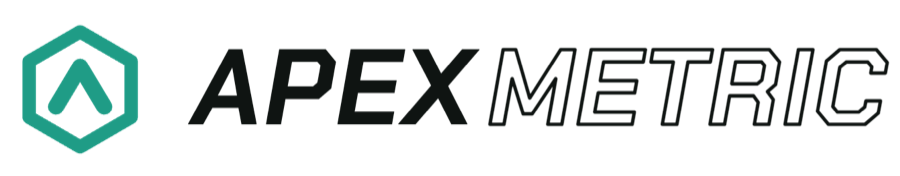
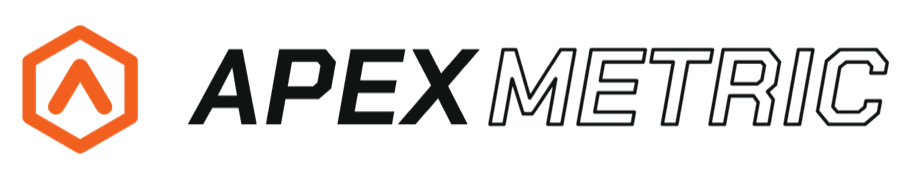
Dark mode (default) + light mode assets

Changed region(s): [[0.0, 0.142, 0.1556, 0.8807]]

diff --git a/assets/apple.css b/assets/apple.css
@@ -1,20 +1,53 @@
 /* Apex Metric — product-page edition. Loaded after style.css (which supplies the device frames and drawn screens)
    and re-skins .am for a light, airy look. Single light look with dark accent sections, on purpose. */
 .am.ap {
-  --t: #1d1d1f; --t2: #6e6e73; --bg: #ffffff; --g: #f5f5f7; --line: #d2d2d7; --blue: #F2601F; --link: #C8501A; --sage: #1F9C86;
+  --t: #1d1d1f; --t2: #5f6670; --bg: #f4f7fa; --g: #e8eef3; --card: #ffffff; --line: #d3dbe2; --sep: #dfe6ec; --blue: #F2601F; --link: #C8501A; --sage: #1F9C86;
+  --onacc: #ffffff; --hover: #E0531A; --nav: rgba(244, 247, 250, 0.82); --navline: rgba(0, 0, 0, 0.08); --hero: linear-gradient(#f8fbfd, #f4f7fa);
+  --warm: linear-gradient(160deg, #fff4ec, #ffe3cf); --sagebg: linear-gradient(160deg, #eaf7f4, #cfeee6); --amberbg: linear-gradient(160deg, #fff8e6, #ffecb8);
+  --grad: linear-gradient(90deg, #E8461A, #FF8A3D); --pill: #ffffff; --prose: #3a3a3c; --kicker: #b64400;
   --sf: -apple-system, BlinkMacSystemFont, "SF Pro Display", "Inter", "Helvetica Neue", Arial, sans-serif;
   background: var(--bg); color: var(--t); font-family: var(--sf); font-size: 17px; line-height: 1.47; letter-spacing: -0.01em; color-scheme: light;
 }
+
+/* ── Dark mode (default). Light only when chosen, or "auto" on a light device. ── */
+html { --page-bg: #000; }
+html[data-theme="light"] { --page-bg: #f4f7fa; }
+html:not([data-theme="light"]):not([data-theme="auto"]) .am.ap {
+  --t: #f5f5f7; --t2: #a1a1a6; --bg: #000000; --g: #111213; --card: #1c1c1e; --line: #2c2c2e; --sep: #2c2c2e; --blue: #3EC9A7; --link: #5FD6BA; --sage: #3EC9A7;
+  --onacc: #04140F; --hover: #34B394; --nav: rgba(0, 0, 0, 0.72); --navline: rgba(255, 255, 255, 0.1); --hero: linear-gradient(#0a0b0b, #000);
+  --warm: linear-gradient(160deg, #1e1510, #2b1b11); --sagebg: linear-gradient(160deg, #0d1d19, #10302a); --amberbg: linear-gradient(160deg, #1d180c, #2c2410);
+  --grad: linear-gradient(90deg, #2BD6AE, #9BE7D5); --pill: #3a3a3c; --prose: #d1d1d6; --kicker: #5FD6BA; color-scheme: dark;
+}
+@media (prefers-color-scheme: dark) { html[data-theme="auto"] .am.ap {
+  --t: #f5f5f7; --t2: #a1a1a6; --bg: #000000; --g: #111213; --card: #1c1c1e; --line: #2c2c2e; --sep: #2c2c2e; --blue: #3EC9A7; --link: #5FD6BA; --sage: #3EC9A7;
+  --onacc: #04140F; --hover: #34B394; --nav: rgba(0, 0, 0, 0.72); --navline: rgba(255, 255, 255, 0.1); --hero: linear-gradient(#0a0b0b, #000);
+  --warm: linear-gradient(160deg, #1e1510, #2b1b11); --sagebg: linear-gradient(160deg, #0d1d19, #10302a); --amberbg: linear-gradient(160deg, #1d180c, #2c2410);
+  --grad: linear-gradient(90deg, #2BD6AE, #9BE7D5); --pill: #3a3a3c; --prose: #d1d1d6; --kicker: #5FD6BA; color-scheme: dark;
+} }
+/* Logos and icons that exist in a light and a dark version. */
+.am.ap .only-dark { display: none !important; }
+html:not([data-theme="light"]):not([data-theme="auto"]) .am.ap .only-dark { display: inline-block !important; }
+html:not([data-theme="light"]):not([data-theme="auto"]) .am.ap .only-light { display: none !important; }
+@media (prefers-color-scheme: dark) { html[data-theme="auto"] .am.ap .only-dark { display: inline-block !important; } html[data-theme="auto"] .am.ap .only-light { display: none !important; } }
+/* Theme switch in the top bar: moon = dark, sun = light, half circle = automatic. */
+.am.ap .theme-btn { flex: none; width: 30px; height: 30px; border-radius: 50%; border: 0; background: var(--g); color: var(--t); display: grid; place-items: center; cursor: pointer; padding: 0; }
+.am.ap .theme-btn svg { width: 16px; height: 16px; fill: none; stroke: currentColor; stroke-width: 1.8; stroke-linecap: round; display: none; }
+.am.ap .theme-btn .ti-dark { fill: currentColor; stroke: none; } .am.ap .theme-btn .fill { fill: currentColor; stroke: none; }
+.am.ap .theme-btn[data-mode="dark"] .ti-dark, .am.ap .theme-btn[data-mode="light"] .ti-light, .am.ap .theme-btn[data-mode="auto"] .ti-auto { display: block; }
+.am.ap .theme-btn:not([data-mode]) .ti-dark { display: block; }
+
+@media (prefers-color-scheme: light) { html[data-theme="auto"] { --page-bg: #f4f7fa; } }
+
 .am.ap h1, .am.ap h2, .am.ap h3, .am.ap h4 { font-family: var(--sf); text-transform: none; font-weight: 700; letter-spacing: -0.025em; line-height: 1.08; }
 .am.ap a { color: var(--link); text-decoration: none; }
 .am.ap a:hover { text-decoration: underline; }
 .am.ap sup { font-size: 0.6em; color: var(--t2); }
 .am.ap .center { text-align: center; }
-.am.ap .grad { background: linear-gradient(90deg, #E8461A, #FF8A3D); -webkit-background-clip: text; background-clip: text; color: transparent; }
+.am.ap .grad { background: var(--grad); -webkit-background-clip: text; background-clip: text; color: transparent; }
 .am.ap .soft { color: var(--t2); }
 
 /* Local nav */
-.am.ap .lnav { position: sticky; top: env(safe-area-inset-top, 0px); z-index: 20; background: rgba(255, 255, 255, 0.8); backdrop-filter: saturate(180%) blur(20px); -webkit-backdrop-filter: saturate(180%) blur(20px); border-bottom: 1px solid rgba(0, 0, 0, 0.08); }
+.am.ap .lnav { position: sticky; top: env(safe-area-inset-top, 0px); z-index: 20; background: var(--nav); backdrop-filter: saturate(180%) blur(20px); -webkit-backdrop-filter: saturate(180%) blur(20px); border-bottom: 1px solid var(--navline); }
 .am.ap .lnav-in { max-width: 1024px; margin: 0 auto; padding: 0 22px; height: 52px; display: flex; align-items: center; gap: 24px; }
 .am.ap .lnav-name { display: flex; align-items: center; gap: 8px; color: var(--t); font-weight: 700; font-size: 1.15rem; letter-spacing: -0.02em; white-space: nowrap; }
 .am.ap .lnav-name img { width: 24px; height: 24px; }
@@ -25,8 +58,8 @@
 @media (max-width: 680px) { .am.ap .lnav-links { display: none; } .am.ap .lnav .ap-btn { margin-left: auto; } }
 
 /* Buttons + links */
-.am.ap .ap-btn { display: inline-block; background: var(--blue); color: #fff; border-radius: 980px; padding: 12px 22px; font-size: 1.05rem; font-weight: 500; }
-.am.ap .ap-btn:hover { background: #E0531A; text-decoration: none; }
+.am.ap .ap-btn { display: inline-block; background: var(--blue); color: var(--onacc); border-radius: 980px; padding: 12px 22px; font-size: 1.05rem; font-weight: 500; }
+.am.ap .ap-btn:hover { background: var(--hover); text-decoration: none; }
 .am.ap .ap-btn.sm { padding: 4px 13px; font-size: 0.8rem; }
 .am.ap .ap-btn.ghost { background: transparent; color: var(--blue); box-shadow: inset 0 0 0 1px var(--blue); }
 .am.ap .ap-link { font-size: 1.05rem; }
@@ -35,14 +68,14 @@
 
 /* Type */
 .am.ap .ap-eyebrow { font-size: 1.3rem; font-weight: 600; color: var(--t); letter-spacing: -0.01em; }
-.am.ap .ap-eyebrow-sm { font-size: 0.95rem; font-weight: 600; color: #b64400; letter-spacing: 0; }
+.am.ap .ap-eyebrow-sm { font-size: 0.95rem; font-weight: 600; color: var(--kicker); letter-spacing: 0; }
 .am.ap .ap-xl { font-size: clamp(3rem, 9vw, 6rem); font-weight: 800; letter-spacing: -0.035em; line-height: 1.02; }
 .am.ap .ap-h2 { font-size: clamp(2.1rem, 5.4vw, 3.4rem); }
 .am.ap .ap-sub { font-size: clamp(1.1rem, 2.2vw, 1.4rem); color: var(--t2); max-width: 34em; margin-inline: auto; font-weight: 500; line-height: 1.38; }
 .am.ap .ap-fine { font-size: 0.85rem; color: var(--t2); }
 
 /* Hero */
-.am.ap .ap-hero { text-align: center; padding: 64px 22px 0; background: linear-gradient(#fbfbfd, #fff); overflow: hidden; display: grid; gap: 18px; justify-items: center; }
+.am.ap .ap-hero { text-align: center; padding: 64px 22px 0; background: var(--hero); overflow: hidden; display: grid; gap: 18px; justify-items: center; }
 .am.ap .ap-hero.small { padding-bottom: 40px; }
 .am.ap .ap-hero-mark { width: 64px; height: 64px; }
 .am.ap .ap-stage { display: flex; align-items: center; justify-content: center; gap: 4vw; padding-block: 28px 0; transform: translateY(8%); margin-bottom: -2%; }
@@ -65,9 +98,9 @@
 .am.ap .hl h3 { font-size: 1.6rem; line-height: 1.15; }
 .am.ap .hl h3 span { display: block; font-size: 1.05rem; font-weight: 500; color: var(--t2); letter-spacing: -0.01em; margin-top: 8px; line-height: 1.35; }
 .am.ap .hl.dark { background: #000; } .am.ap .hl.dark h3 { color: #f5f5f7; } .am.ap .hl.dark h3 span { color: #a1a1a6; }
-.am.ap .hl.warm { background: linear-gradient(160deg, #fff4ec, #ffe3cf); }
-.am.ap .hl.sage { background: linear-gradient(160deg, #eaf7f4, #cfeee6); }
-.am.ap .hl.amber { background: linear-gradient(160deg, #fff8e6, #ffecb8); }
+.am.ap .hl.warm { background: var(--warm); }
+.am.ap .hl.sage { background: var(--sagebg); }
+.am.ap .hl.amber { background: var(--amberbg); }
 .am.ap .hl-dev { display: flex; justify-content: center; align-items: flex-end; padding-top: 26px; }
 .am.ap .hl .phone, .am.ap .hl .realdev.iphone, .am.ap .hl .realdev.android-phone { width: 250px; margin-bottom: -46%; }
 .am.ap .hl .watch, .am.ap .hl .realdev.apple-watch { width: 170px; margin-bottom: 120px; }
@@ -78,9 +111,9 @@
 .am.ap .ap-row > * { min-width: 0; }
 .am.ap .ap-row.flip > .ap-media { order: 2; }
 .am.ap .ap-media { background: var(--g); border-radius: 30px; aspect-ratio: 1 / 1; max-width: 100%; display: grid; place-items: end center; overflow: hidden; padding: 40px 24px 0; }
-.am.ap .ap-media.warm { background: linear-gradient(160deg, #fff4ec, #ffdcc2); }
-.am.ap .ap-media.sage { background: linear-gradient(160deg, #eaf7f4, #c8ece2); }
-.am.ap .ap-media.amber { background: linear-gradient(160deg, #fff8e6, #ffe7a8); }
+.am.ap .ap-media.warm { background: var(--warm); }
+.am.ap .ap-media.sage { background: var(--sagebg); }
+.am.ap .ap-media.amber { background: var(--amberbg); }
 .am.ap .ap-media.dark { background: radial-gradient(70% 60% at 50% 50%, #1f2a27, #000); place-items: center; padding: 24px; }
 .am.ap .ap-media > .phone, .am.ap .ap-media > .realdev { width: min(270px, 62%); margin-bottom: -16%; }
 .am.ap .ap-media .pair { display: flex; align-items: flex-end; justify-content: center; width: 100%; }
@@ -94,8 +127,8 @@
 .am.ap .ap-text { color: var(--t2); font-size: 1.1rem; font-weight: 500; line-height: 1.42; }
 .am.ap .ap-checks { list-style: none; padding: 0; margin: 4px 0 0; display: grid; gap: 12px; }
 .am.ap .ap-checks li { position: relative; padding-left: 32px; font-size: 1.02rem; }
-.am.ap .ap-checks li::before { content: ""; position: absolute; left: 0; top: 0.12em; width: 21px; height: 21px; border-radius: 50%; background: #1F9C86; }
-.am.ap .ap-checks li::after { content: ""; position: absolute; left: 7px; top: 0.36em; width: 5px; height: 9px; border: solid #fff; border-width: 0 2.5px 2.5px 0; transform: rotate(45deg); }
+.am.ap .ap-checks li::before { content: ""; position: absolute; left: 0; top: 0.12em; width: 21px; height: 21px; border-radius: 50%; background: var(--sage); }
+.am.ap .ap-checks li::after { content: ""; position: absolute; left: 7px; top: 0.36em; width: 5px; height: 9px; border: solid var(--card); border-width: 0 2.5px 2.5px 0; transform: rotate(45deg); }
 @media (max-width: 820px) { .am.ap .ap-row { grid-template-columns: 1fr; gap: 26px; } .am.ap .ap-row.flip > .ap-media { order: 0; } .am.ap .ap-rows { gap: 64px; } }
 
 /* Real device photos: the frame image with the screen laid on top (positions from devices.json) */
@@ -143,13 +176,13 @@
 /* Pricing */
 .am.ap .plans { max-width: 1024px; margin: 0 auto; display: grid; grid-template-columns: repeat(3, 1fr); gap: 20px; }
 .am.ap .plan { background: var(--g); border-radius: 28px; padding: 34px 28px; display: grid; gap: 8px; align-content: start; justify-items: center; text-align: center; position: relative; }
-.am.ap .plan.hi { background: #fff; box-shadow: 0 0 0 2px var(--blue), 0 20px 40px rgba(0, 0, 0, 0.06); }
-.am.ap .flag { position: absolute; top: 14px; font-size: 0.75rem; font-weight: 600; color: #b64400; }
+.am.ap .plan.hi { background: var(--card); box-shadow: 0 0 0 2px var(--blue), 0 20px 40px rgba(0, 0, 0, 0.06); }
+.am.ap .flag { position: absolute; top: 14px; font-size: 0.75rem; font-weight: 600; color: var(--kicker); }
 .am.ap .plan h3 { font-size: 1.6rem; margin-top: 10px; }
 .am.ap .plan .pr { font-size: 2.6rem; font-weight: 700; letter-spacing: -0.03em; line-height: 1.1; font-variant-numeric: tabular-nums; }
 .am.ap .plan .pr small { font-size: 0.45em; color: var(--t2); font-weight: 500; }
 .am.ap .plan .per { color: var(--t2); margin-bottom: 12px; }
-.am.ap .plan ul { list-style: none; padding: 22px 0 0; margin: 14px 0 0; border-top: 1px solid #e5e5ea; display: grid; gap: 12px; width: 100%; font-size: 0.98rem; }
+.am.ap .plan ul { list-style: none; padding: 22px 0 0; margin: 14px 0 0; border-top: 1px solid var(--sep); display: grid; gap: 12px; width: 100%; font-size: 0.98rem; }
 @media (max-width: 760px) { .am.ap .plans { grid-template-columns: 1fr; } }
 .am.ap .plans.four { max-width: 1200px; grid-template-columns: repeat(4, 1fr); gap: 16px; }
 @media (max-width: 1100px) { .am.ap .plans.four { grid-template-columns: repeat(2, 1fr); } }
@@ -162,7 +195,7 @@
 
 /* Features page extras */
 .am.ap .minis { max-width: 1024px; margin: 0 auto; display: grid; grid-template-columns: repeat(4, 1fr); gap: 20px; }
-.am.ap .minis > div { background: #fff; border-radius: 22px; padding: 22px; }
+.am.ap .minis > div { background: var(--card); border-radius: 22px; padding: 22px; }
 .am.ap .minis b { display: block; font-size: 1.05rem; margin-bottom: 6px; }
 .am.ap .minis p { color: var(--t2); font-size: 0.95rem; }
 @media (max-width: 860px) { .am.ap .minis { grid-template-columns: 1fr 1fr; } }
@@ -177,36 +210,36 @@
 .am.ap .dir { display: grid; grid-template-columns: repeat(3, 1fr); gap: 20px; }
 .am.ap .dir div { display: grid; gap: 8px; align-content: start; }
 .am.ap .dir h4 { margin: 0; color: var(--t); font-size: 0.78rem; font-weight: 600; }
-.am.ap .dir a { color: #424245; }
+.am.ap .dir a { color: var(--t2); }
 .am.ap .copy { border-top: 1px solid var(--line); padding-top: 16px; margin: 0; }
 @media (max-width: 560px) { .am.ap .dir { grid-template-columns: 1fr 1fr; } }
 
 /* Document pages (support, privacy, terms…) in the same light style */
-.am.ap .ap-doc .doc-hero { border-bottom: 1px solid #e5e5ea; padding-block: 64px 32px; background: linear-gradient(#fbfbfd, #fff); }
-.am.ap .ap-doc .doc-hero .eyebrow { color: #b64400; font-family: var(--sf); letter-spacing: 0; text-transform: none; font-weight: 600; font-size: 1rem; }
+.am.ap .ap-doc .doc-hero { border-bottom: 1px solid var(--sep); padding-block: 64px 32px; background: var(--hero); }
+.am.ap .ap-doc .doc-hero .eyebrow { color: var(--kicker); font-family: var(--sf); letter-spacing: 0; text-transform: none; font-weight: 600; font-size: 1rem; }
 .am.ap .ap-doc .doc-hero h1 { font-size: clamp(2.6rem, 7vw, 4.2rem); font-weight: 800; letter-spacing: -0.03em; }
 .am.ap .ap-doc .lead { color: var(--t2); font-weight: 500; }
 .am.ap .ap-doc .toc a { color: var(--t2); }
 .am.ap .ap-doc .toc a:hover { color: var(--t); }
 .am.ap .ap-doc .prose h2 { font-size: 1.7rem; }
 .am.ap .ap-doc .prose h3 { font-family: var(--sf); letter-spacing: -0.01em; font-size: 1.2rem; }
-.am.ap .ap-doc .prose p, .am.ap .ap-doc .prose li { color: #3a3a3c; }
+.am.ap .ap-doc .prose p, .am.ap .ap-doc .prose li { color: var(--prose); }
 .am.ap .ap-doc .prose strong { color: var(--t); }
-.am.ap .ap-doc .prose .callout, .am.ap .ap-doc .contact { background: var(--g); border-color: #e5e5ea; }
+.am.ap .ap-doc .prose .callout, .am.ap .ap-doc .contact { background: var(--g); border-color: var(--sep); }
 .am.ap .ap-doc .contact code { color: var(--t); font-family: var(--sf); }
-.am.ap .ap-doc th, .am.ap .ap-doc td { border-color: #e5e5ea; }
+.am.ap .ap-doc th, .am.ap .ap-doc td { border-color: var(--sep); }
 .am.ap .ap-doc th { color: var(--t2); font-family: var(--sf); letter-spacing: 0; }
-.am.ap .ap-doc details { border-color: #e5e5ea; }
+.am.ap .ap-doc details { border-color: var(--sep); }
 .am.ap .ap-doc summary::after { color: var(--blue); font-family: var(--sf); }
 .am.ap .ap-doc details > div { color: var(--t2); }
-.am.ap .ap-doc .steps li::before { background: var(--blue); color: #fff; }
+.am.ap .ap-doc .steps li::before { background: var(--blue); color: var(--onacc); }
 .am.ap .ap-doc .muted { color: var(--t2); }
 .am.ap .ap-doc a { color: var(--link); }
 
 /* Language switcher */
 .am.ap .lnav-lang { display: flex; gap: 2px; background: var(--g); border-radius: 999px; padding: 3px; font-size: 0.72rem; font-weight: 600; }
 .am.ap .lnav-lang a { color: var(--t2); padding: 3px 8px; border-radius: 999px; }
-.am.ap .lnav-lang a[aria-current] { background: #fff; color: var(--t); box-shadow: 0 1px 3px rgba(0, 0, 0, 0.12); }
+.am.ap .lnav-lang a[aria-current] { background: var(--pill); color: var(--t); box-shadow: 0 1px 3px rgba(0, 0, 0, 0.12); }
 .am.ap .lnav-lang a:hover { text-decoration: none; color: var(--t); }
 @media (max-width: 680px) { .am.ap .lnav-lang { margin-left: auto; } .am.ap .lnav .ap-btn { margin-left: 0; } }
 .am.ap .ap-sub.left { margin-inline: 0; }
@@ -231,7 +264,7 @@
 
 /* FAQ */
 .am.ap .faq { max-width: 820px; margin: 0 auto; }
-.am.ap .faq details { border-bottom: 1px solid #e5e5ea; padding-block: 18px; }
+.am.ap .faq details { border-bottom: 1px solid var(--sep); padding-block: 18px; }
 .am.ap .faq summary { font-size: 1.12rem; font-weight: 600; cursor: pointer; list-style: none; display: flex; justify-content: space-between; gap: 16px; }
 .am.ap .faq summary::-webkit-details-marker { display: none; }
 .am.ap .faq summary::after { content: "+"; color: var(--blue); font-size: 1.4rem; line-height: 1; }
@@ -240,25 +273,25 @@
 
 /* Journal */
 .am.ap .jgrid { max-width: 1024px; margin: 0 auto; display: grid; grid-template-columns: repeat(auto-fill, minmax(min(100%, 300px), 1fr)); gap: 20px; }
-.am.ap .jcard { background: #fff; border: 1px solid #e5e5ea; border-radius: 22px; overflow: hidden; display: grid; color: var(--t); transition: transform 0.2s ease, box-shadow 0.2s ease; }
+.am.ap .jcard { background: var(--card); border: 1px solid var(--sep); border-radius: 22px; overflow: hidden; display: grid; color: var(--t); transition: transform 0.2s ease, box-shadow 0.2s ease; }
 .am.ap .ap-sec.gray .jcard { border-color: transparent; }
 .am.ap .jcard:hover { text-decoration: none; transform: translateY(-3px); box-shadow: 0 14px 30px rgba(0, 0, 0, 0.08); }
 .am.ap .jtext { padding: 18px 20px 22px; display: grid; gap: 8px; }
 .am.ap .jtext h3 { font-size: 1.25rem; line-height: 1.2; }
 .am.ap .jtext p { color: var(--t2); font-size: 0.97rem; }
-.am.ap .jcat { font-size: 0.82rem; font-weight: 600; color: #b64400; }
+.am.ap .jcat { font-size: 0.82rem; font-weight: 600; color: var(--kicker); }
 .am.ap .cover { display: grid; place-items: center; }
 .am.ap .cover.small { aspect-ratio: 16 / 9; }
 .am.ap .cover.big { aspect-ratio: 21 / 9; border-radius: 22px; margin: 8px 0 26px; max-width: 100%; }
 .am.ap .cover svg { width: 46%; height: auto; }
 .am.ap .cover.big svg { width: 30%; }
 .am.ap .newsgrid { max-width: 1024px; margin: 0 auto; display: grid; grid-template-columns: repeat(auto-fill, minmax(min(100%, 300px), 1fr)); gap: 16px; }
-.am.ap .news { background: #fff; border-radius: 18px; padding: 18px 20px; display: grid; gap: 6px; color: var(--t); }
+.am.ap .news { background: var(--card); border-radius: 18px; padding: 18px 20px; display: grid; gap: 6px; color: var(--t); }
 .am.ap .news:hover { text-decoration: none; box-shadow: 0 10px 24px rgba(0, 0, 0, 0.07); }
 .am.ap .news b { font-size: 1.05rem; }
 .am.ap .news p { color: var(--t2); font-size: 0.95rem; }
 .am.ap .news::after { content: "↗"; color: var(--blue); font-weight: 700; }
-.am.ap .nsrc { font-size: 0.76rem; font-weight: 700; letter-spacing: 0.04em; text-transform: uppercase; color: #1f8f7d; }
+.am.ap .nsrc { font-size: 0.76rem; font-weight: 700; letter-spacing: 0.04em; text-transform: uppercase; color: var(--sage); }
 .am.ap .article { max-width: 760px; margin: 0 auto; padding: 48px 22px 64px; display: grid; gap: 12px; }
 .am.ap .article .back { font-size: 0.95rem; }
 .am.ap .article .back::after { content: ""; }
@@ -270,7 +303,11 @@
 .am.ap .abody .note { background: var(--g); border-radius: 16px; padding: 16px 18px; font-size: 1rem; }
 .am.ap .abody .table-wrap { overflow-x: auto; }
 .am.ap .abody table { border-collapse: collapse; width: 100%; min-width: 520px; font-size: 0.95rem; }
-.am.ap .abody th, .am.ap .abody td { border-bottom: 1px solid #e5e5ea; padding: 10px; text-align: left; vertical-align: top; }
+.am.ap .abody th, .am.ap .abody td { border-bottom: 1px solid var(--sep); padding: 10px; text-align: left; vertical-align: top; }
 .am.ap .abody th { color: var(--t2); font-weight: 600; }
 .am.ap .fineprint { color: var(--t2); font-size: 0.85rem; max-width: 70ch; margin-inline: auto; }
 @media (max-width: 680px) { .am.ap .lnav .ap-btn { display: none; } .am.ap .lnav-in { gap: 12px; } }
+
+/* Dark mode: the always-black tiles get a lift so they don't vanish into the black page. */
+html:not([data-theme="light"]):not([data-theme="auto"]) .am.ap .hl.dark, html:not([data-theme="light"]):not([data-theme="auto"]) .am.ap .tile.ink { background: #161618; }
+@media (prefers-color-scheme: dark) { html[data-theme="auto"] .am.ap .hl.dark, html[data-theme="auto"] .am.ap .tile.ink { background: #161618; } }
